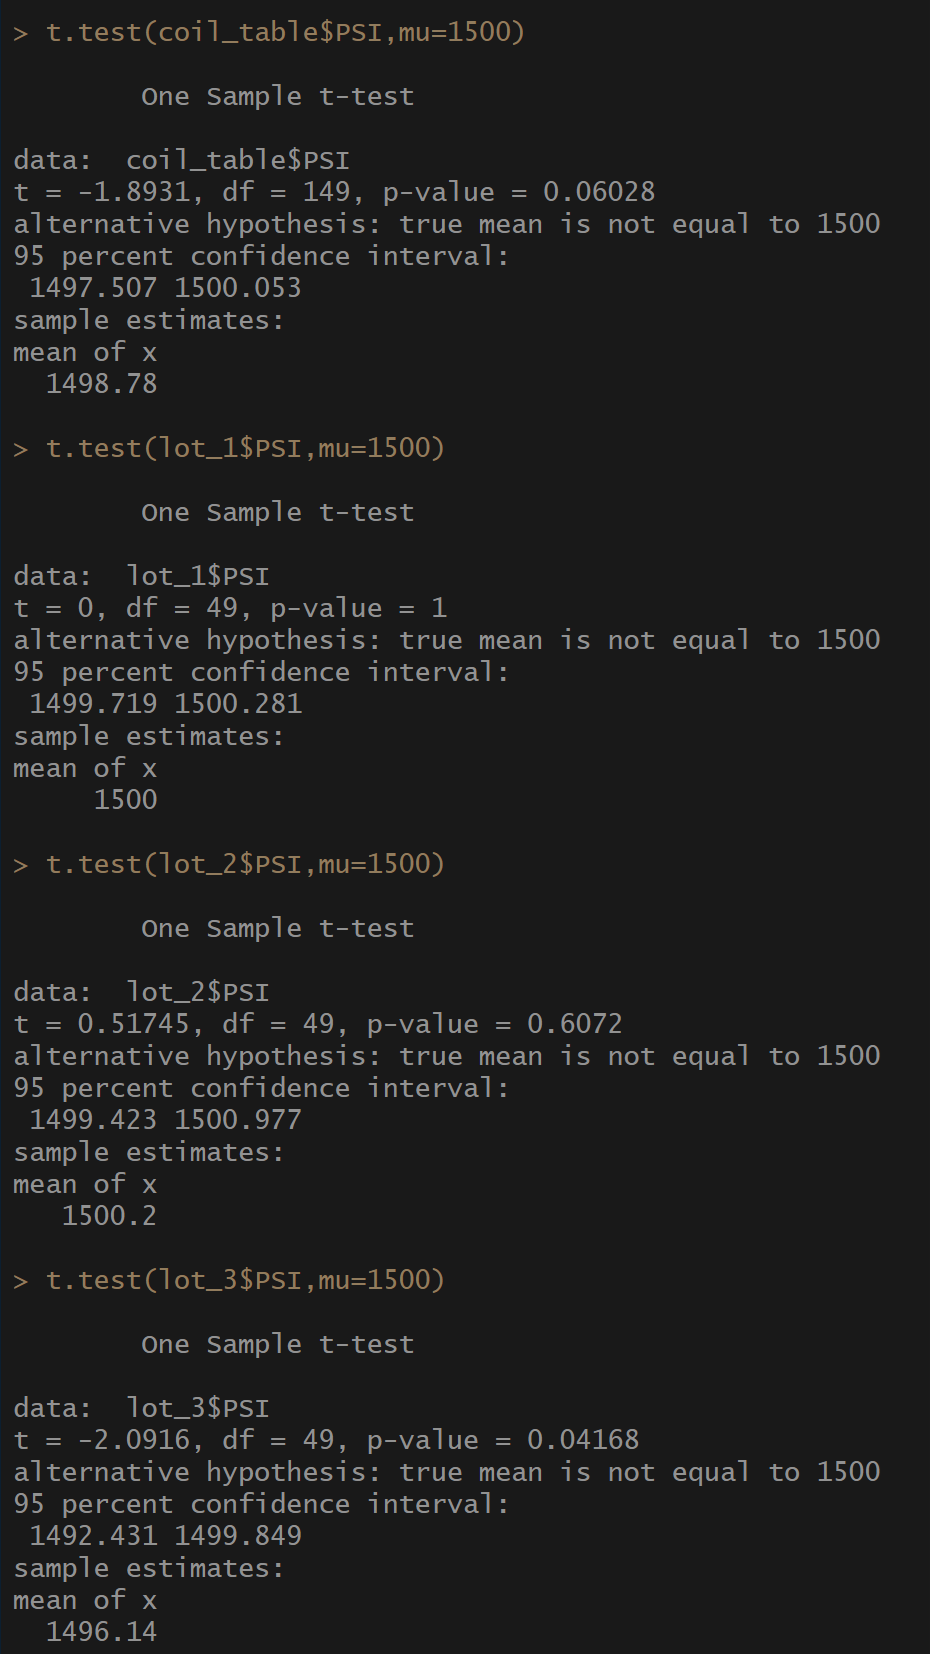
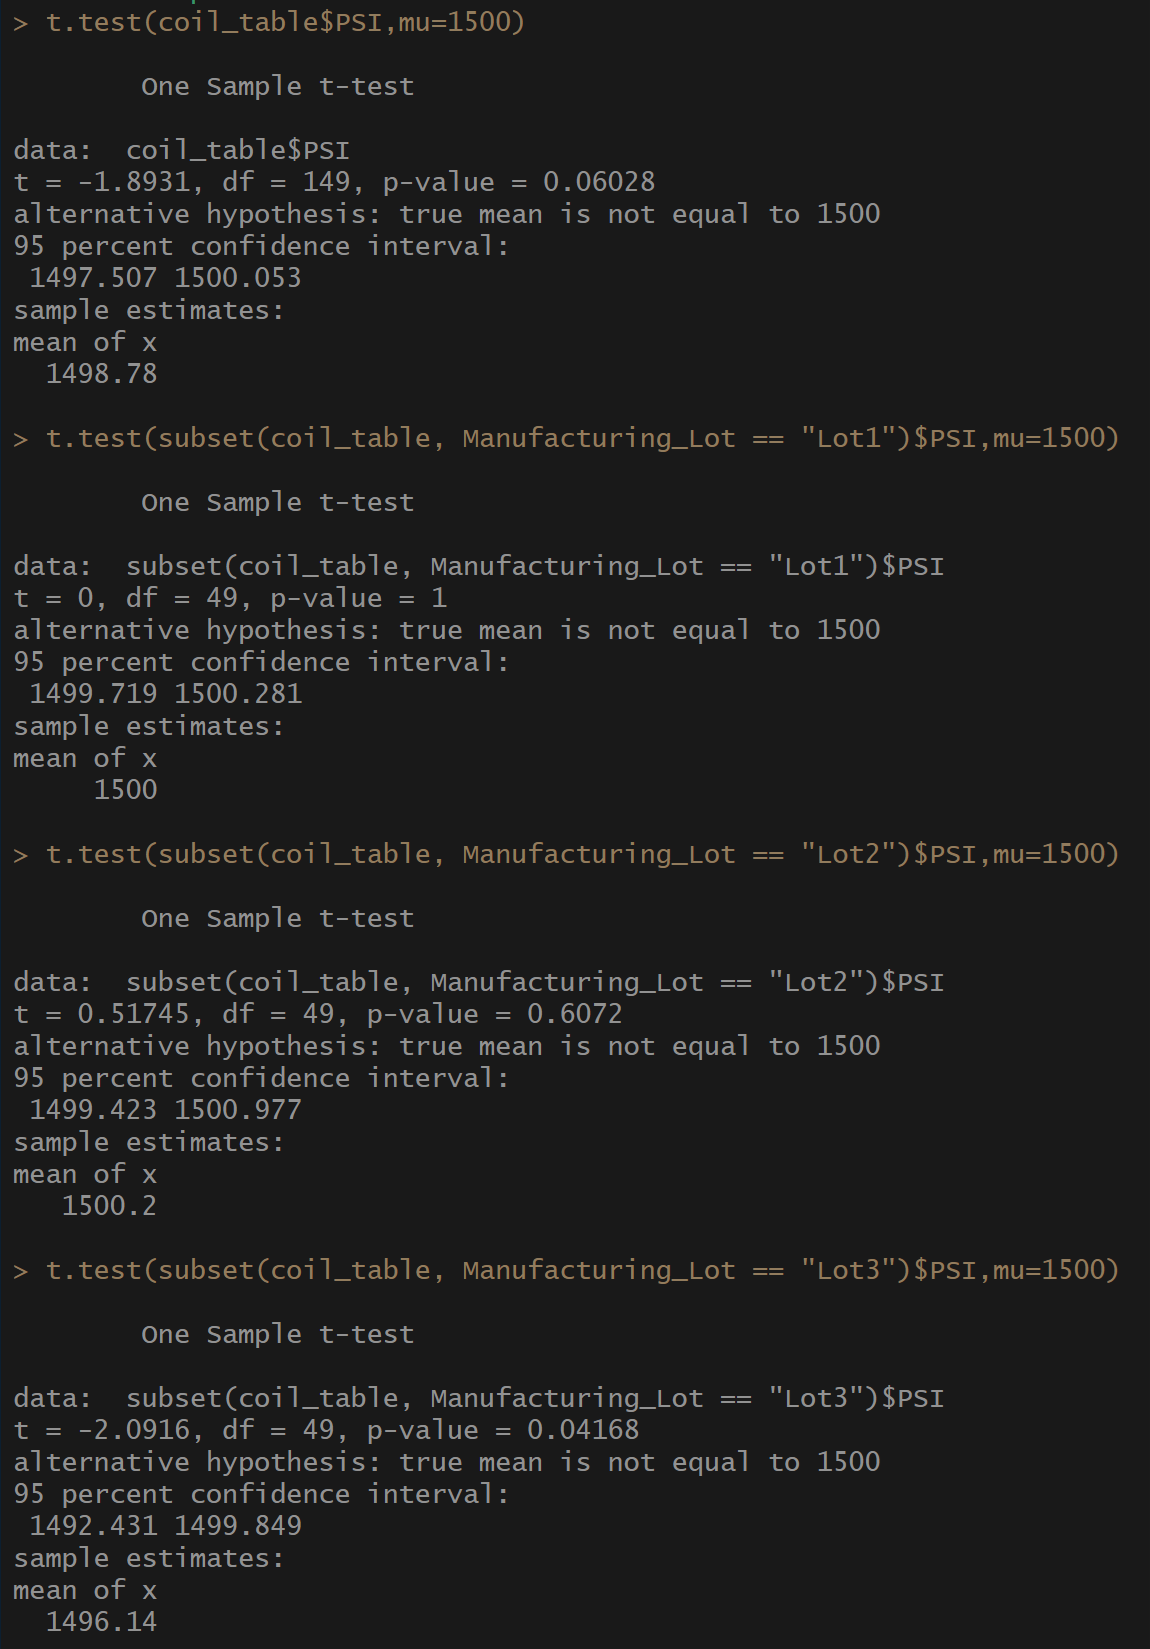
updates

diff --git a/README.md b/README.md
@@ -11,15 +11,15 @@ In this exercise, I am helping Jeremy and the data analytics team with AutosRUs 
 We will be using R to perform retrospective analysis of historical data to create summary statistics, determine predictive variables, and understand performance differences with other manufacturers. The source data was retrieved from .CSV files. 
 
 From the Module 16 Challenge: 
-    ```
-        'Perform multiple linear regression analysis to identify which variables in the dataset predict the mpg of MechaCar prototypes.
+```
+    Perform multiple linear regression analysis to identify which variables in the dataset predict the mpg of MechaCar prototypes.
 
-        Collect summary statistics on the pounds per square inch (PSI) of the suspension coils from the manufacturing lots.
+    Collect summary statistics on the pounds per square inch (PSI) of the suspension coils from the manufacturing lots.
 
-        Run t-tests to determine if the manufacturing lots are statistically different from the mean population.
+    Run t-tests to determine if the manufacturing lots are statistically different from the mean population.
 
-        Design a statistical study to compare vehicle performance of the MechaCar vehicles against vehicles from other manufacturers. For each statistical analysis, you’ll write a summary interpretation of the findings.'
-    ```
+    Design a statistical study to compare vehicle performance of the MechaCar vehicles against vehicles from other manufacturers. For each statistical analysis, you’ll write a summary interpretation of the findings.
+```
 
 ## Linear Regression to Predict MPG
 
@@ -27,7 +27,7 @@ Statistical metrics from the multiple linear regression model were produced usin
 ```
     lm(mpg ~ vehicle_length + vehicle_weight + spoiler_angle + ground_clearance + AWD,data=mpg_table)
 ```
-- Output from Linear Regression
+Output from Linear Regression
     ![linear_regression](/linear_regression.png)
 
 According to the results, vehicle length and ground clearance (as well as intercept) are statistically unlikely to provide random variance to the linear model, due to their very small P-values. In other words, vehicle length and ground clearance have a significant impact on mpg. 
@@ -39,14 +39,38 @@ The Multiple R-squared value of the linear model is .715, which means that the m
 
 ## Summary Statistics on Suspension Coils
 
-In your README, create a subheading ## Summary Statistics on Suspension Coils, and write a short summary using screenshots from your total_summary and lot_summary dataframes, and address the following question:
+The technical anaysis of suspension coils for production MechaCar parts were produced using the following code sample: 
+```
+    total_summary <- coil_table %>% summarize(Mean=mean(PSI), Median=median(PSI), Variance=var(PSI), SD = sd(PSI))
 
-    The design specifications for the MechaCar suspension coils dictate that the variance of the suspension coils must not exceed 100 pounds per square inch. Does the current manufacturing data meet this design specification for all manufacturing lots in total and each lot individually? Why or why not?
+    lot_summary <- coil_table %>% group_by(Manufacturing_Lot) %>% summarize(Mean_PSI=mean(PSI), Median=median(PSI), Variance=var(PSI), SD = sd(PSI), .groups = 'keep')
+```
+Output from Total Summary
+    ![total_summary](/total_summary.png)
+
+Output from Lot Summary
+    ![lot_summary](/lot_summary.png)
+
+The design specifications for the MechaCar suspension coils dictate that the variance of the must not exceed 100 psi. This analysis of the manufacturing data shows that the total variance is 62 psi. However, when grouped by manufacturing lot, the variance of lot 3 is 170 psi, which means that lot 3 should be quarantined and examined for individual part compliance. 
 
 
 ## T-Tests on Suspension Coils
 
-In your README, create a subheading ## T-Tests on Suspension Coils, then briefly summarize your interpretation and findings for the t-test results. Include screenshots of the t-test to support your summary.
+Boxplot of suspension coil psi data from "coil_table"
+    ![boxplot_suspension_coils](/boxplot_suspension_coils.png)
+
+T-Tests of the suspension coil data were performed to determine if the PSI for each manufacturing lot is statistically different from the population mean of 1,500 psi using the following code sample: 
+```
+    t.test(coil_table$PSI,mu=1500)
+    t.test(subset(coil_table, Manufacturing_Lot == "Lot1")$PSI,mu=1500)
+    t.test(subset(coil_table, Manufacturing_Lot == "Lot2")$PSI,mu=1500)
+    t.test(subset(coil_table, Manufacturing_Lot == "Lot3")$PSI,mu=1500)
+```
+Output from T-Tests
+    ![t_tests](/t_tests.png)
+
+The p-value for the total coil spring samples is .06, which is higher than our significance level of .05, so we do not have sufficient evidence to reject the null hypothesis - this means that the sample mean is statistically similar to the supplied population mean. This is also true for lots 1 and 2 as well. 
+However, lot 3's p-value is .04, which is less than our significance level of .05, meaning the null can be rejected and the sample is not regarded as statistically similar to the population mean - another indication that lot 3 needs to be quarantined and inspected for compliance, if not rejected completely. 
 
 
 ## Study Design: MechaCar vs Competition
